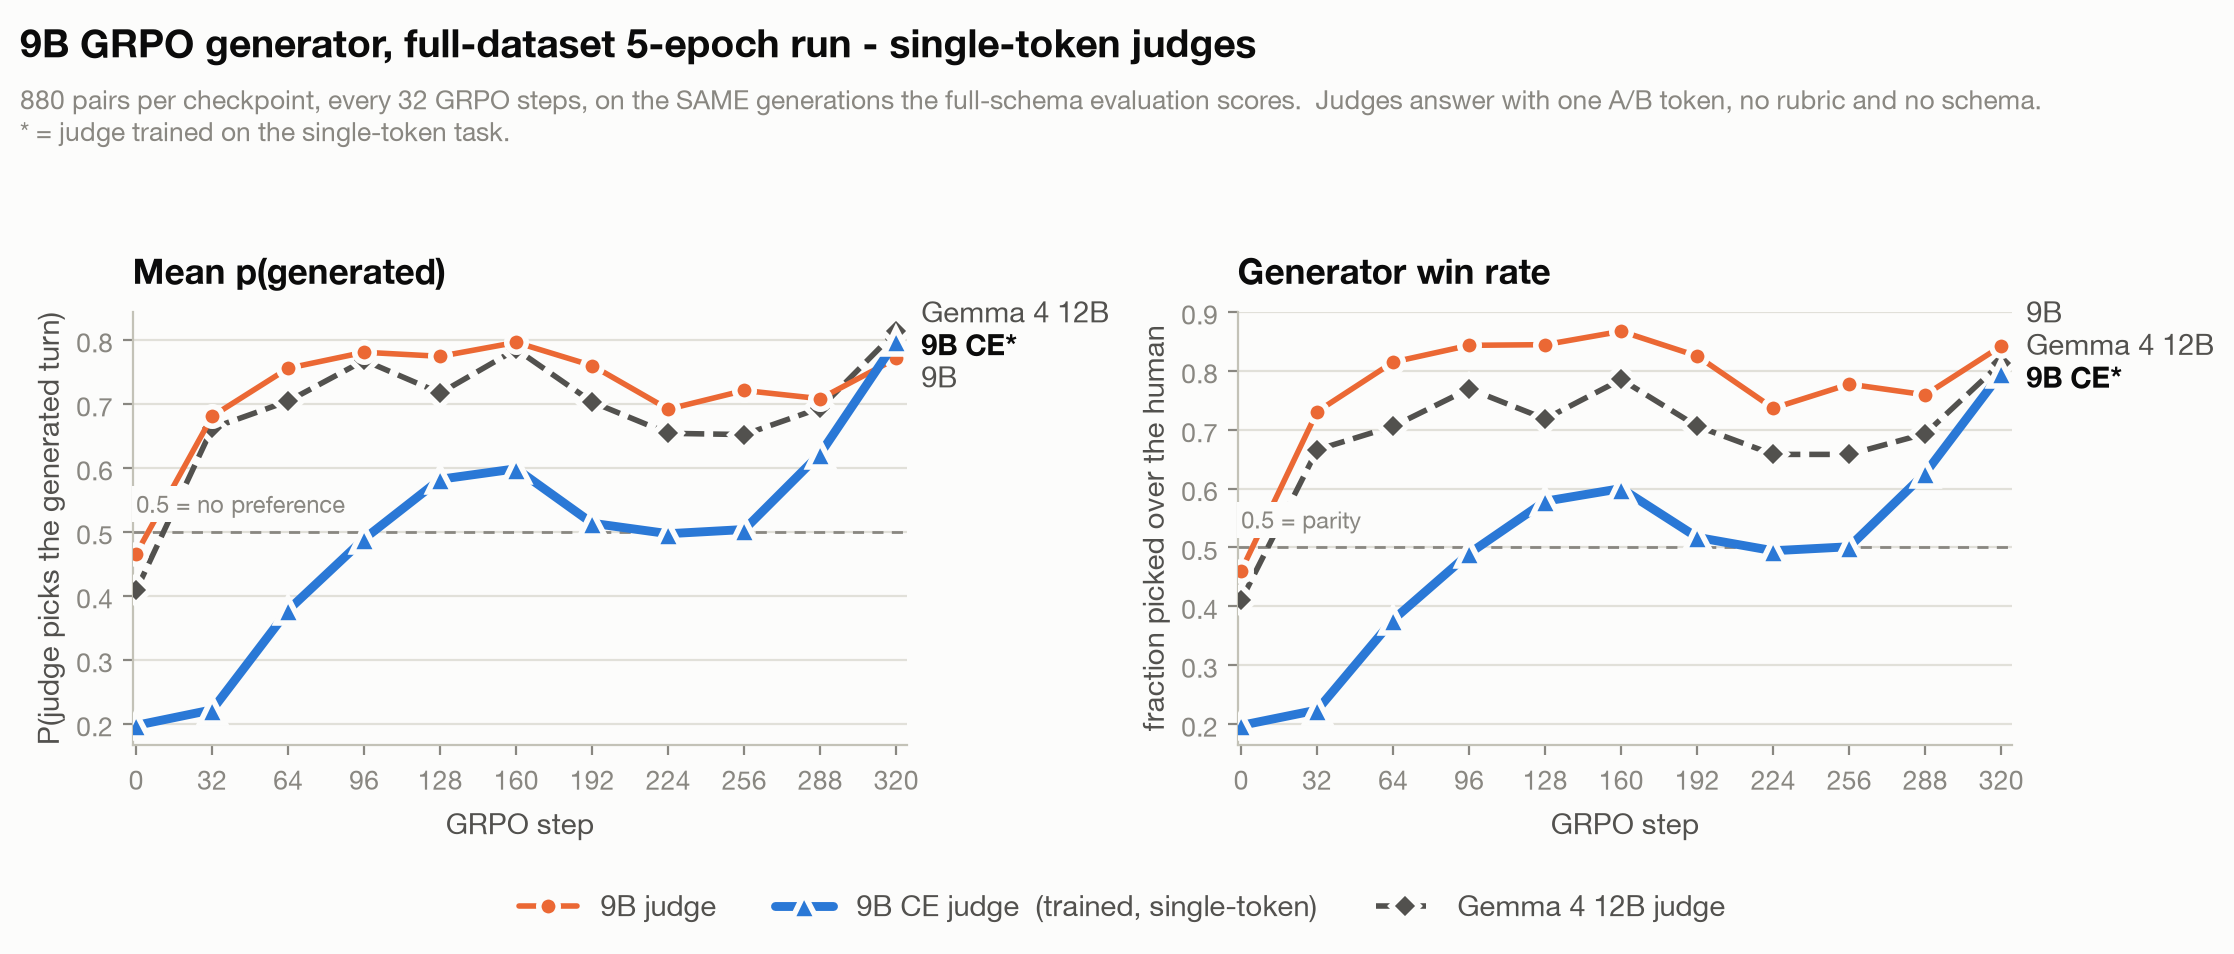
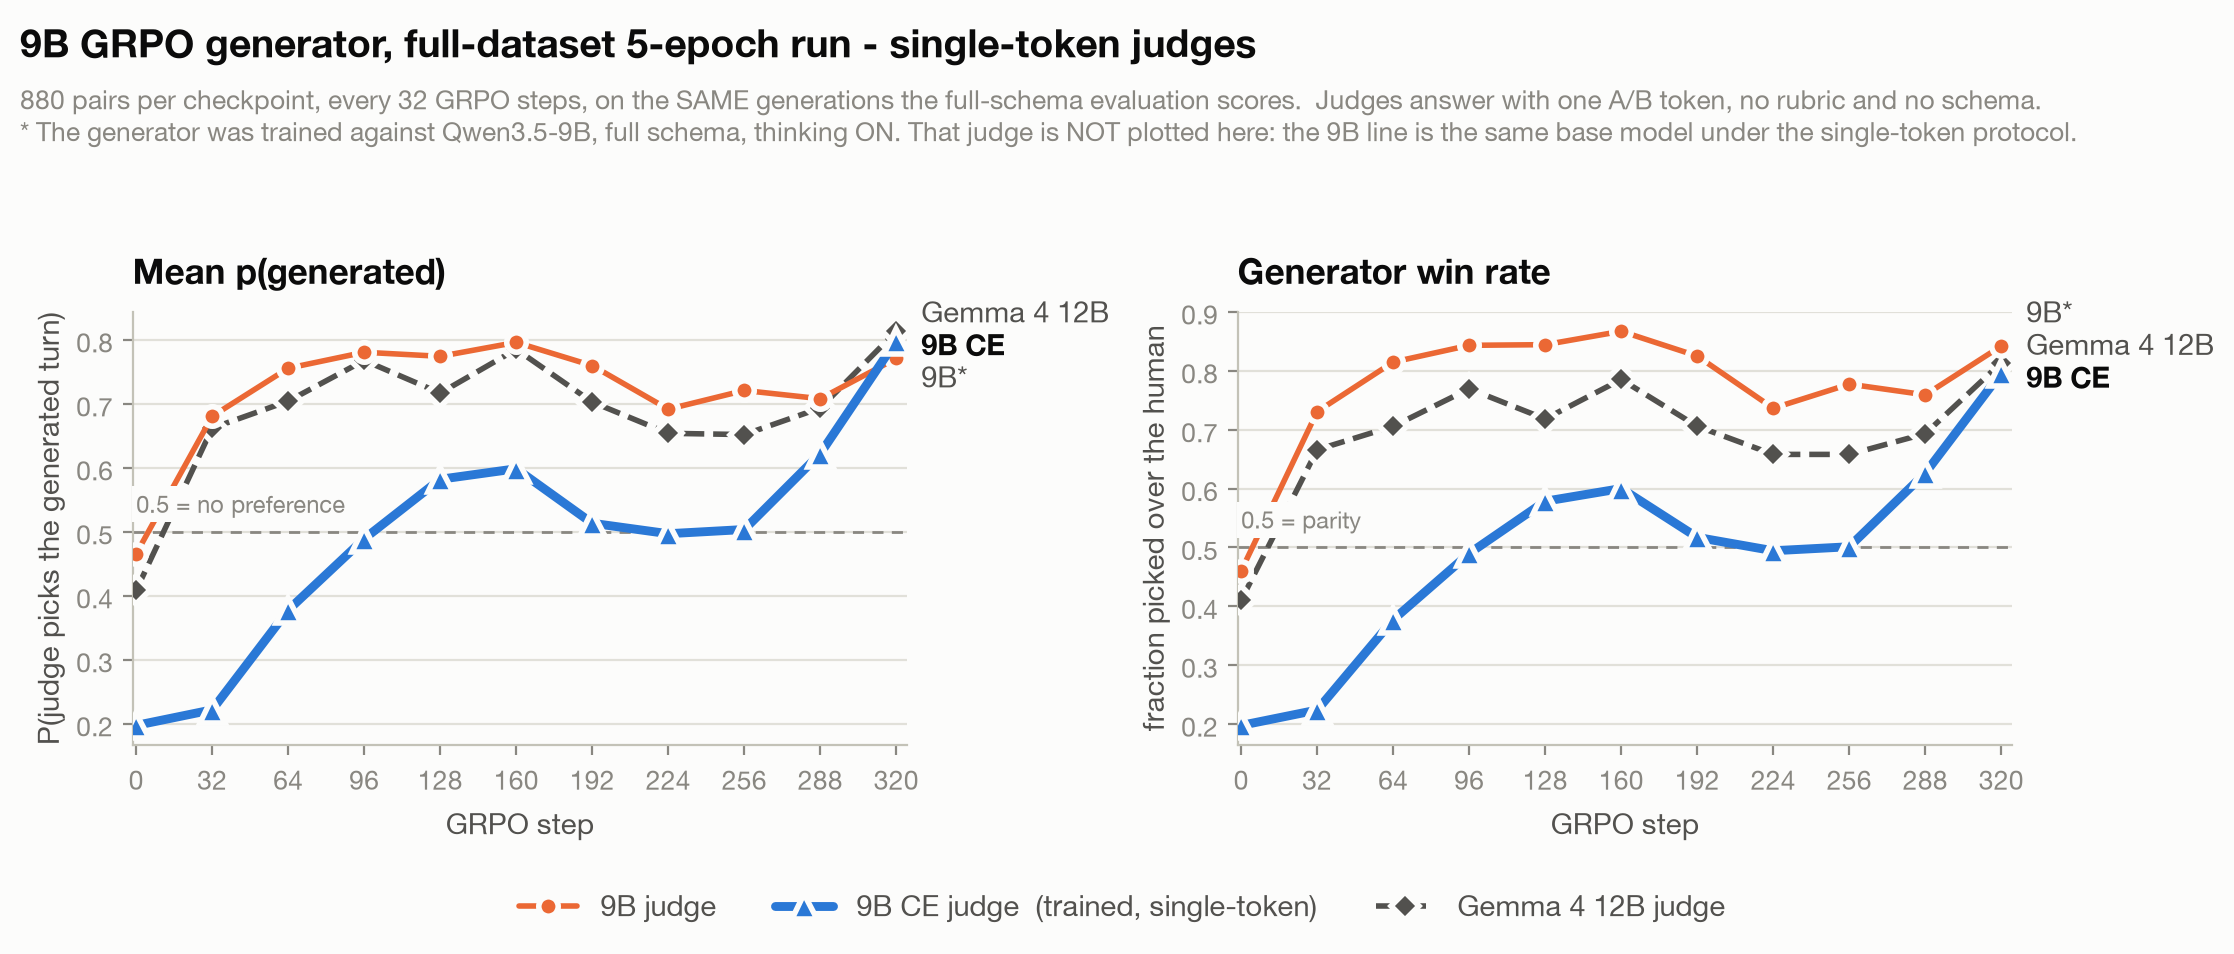
plots: mark the judge the generator was trained against
Both runs were trained against Qwen3.5-9B with the FULL schema, thinking ON
(JUDGE=9b in scripts/slurm/rl_generator_run_9b.sh; PERSONA_JUDGE_ENABLE_THINKING
defaults to 1). None of the three plotted judges IS that judge -- qwen35-9b-st
is the same base model under a different protocol.

'*' previously marked the CE judge as trained on the single-token task, which is
a second, conflicting meaning for the glyph that means 'trained against' in the
adjacent full-schema figures. It now marks the 9B line in the same sense as
those figures, and the subtitle carries the protocol caveat so the line is not
read as the training judge itself. The CE judge keeps its legend entry.

Both READMEs gain a GENERATOR TRAINING JUDGE section.

Changed region(s): [[0.0, 0.1216, 0.9266, 0.152]]

diff --git a/results/2026-08-31-single-token-trajectory-9b-full5ep/plot/plot_single_token_trajectory.py b/results/2026-08-31-single-token-trajectory-9b-full5ep/plot/plot_single_token_trajectory.py
@@ -42,6 +42,14 @@ JUDGES = [
 ]
 LEGEND_ORDER = ("qwen9b", "ce9b", "gemma12")
 
+# The generator was trained against Qwen3.5-9B with the FULL schema, thinking ON. That
+# judge is not on this figure -- qwen35-9b-st is the same base model under the
+# single-token protocol. "*" therefore means the same thing here as in the full-schema
+# figures (it points at the training judge) rather than being reused for a second meaning;
+# the subtitle carries the protocol caveat.
+TRAINED_AGAINST = "qwen9b"
+TRAINING_JUDGE = "Qwen3.5-9B, full schema, thinking ON"
+
 PANELS = [
     ("p_gen_mean", "Mean p(generated)", "P(judge picks the generated turn)",
      0.5, "0.5 = no preference"),
@@ -121,7 +129,7 @@ def main() -> None:
                     zorder=5 if emph else 3,
                     label=f"{label} judge" + ("  (trained, single-token)" if emph else ""),
                     solid_capstyle="round")
-            ends.append((ys[-1], label, emph))
+            ends.append((ys[-1], label, emph, key))
 
         # Anchored LEFT, unlike the full-schema figure. These curves rise from below the
         # reference line to above it, so the right end is where the direct labels crowd
@@ -133,9 +141,9 @@ def main() -> None:
                     bbox=dict(facecolor=INK["surface"], edgecolor="none", pad=1.5))
 
         lo, hi = ax.get_ylim()
-        placed = declutter([(y - lo) / (hi - lo) for y, _, _ in ends])
-        for (y, label, emph), yf in zip(ends, placed):
-            ax.annotate(label + ("*" if emph else ""),
+        placed = declutter([(y - lo) / (hi - lo) for y, _, _, _ in ends])
+        for (y, label, emph, key), yf in zip(ends, placed):
+            ax.annotate(label + ("*" if key == TRAINED_AGAINST else ""),
                         xy=(steps[-1], lo + yf * (hi - lo)),
                         xytext=(9, 0), textcoords="offset points",
                         color=INK["primary"] if emph else INK["secondary"],
@@ -162,8 +170,9 @@ def main() -> None:
     default_subtitle = (
         f"{n} pairs per checkpoint, every 2 epochs, on the SAME generations the "
         f"full-schema figure scores.  Judges answer with one A/B token, no rubric and no "
-        f"schema.\n* = judge trained on the single-token task. Colours match the "
-        f"full-schema figure for the two zero-shot judges."
+        f"schema.\n"
+        f"* The generator was trained against {TRAINING_JUDGE}. That judge is NOT plotted "
+        f"here: the 9B line is the same base model under the single-token protocol."
     )
     fig.text(0.008, 0.925, a.subtitle.format(n=n) if a.subtitle else default_subtitle,
              ha="left", va="top", color=INK["muted"], fontsize=9.5)

diff --git a/results/2026-08-31-single-token-trajectory-9b-train10pct-20ep/plot/plot_single_token_trajectory.py b/results/2026-08-31-single-token-trajectory-9b-train10pct-20ep/plot/plot_single_token_trajectory.py
@@ -42,6 +42,14 @@ JUDGES = [
 ]
 LEGEND_ORDER = ("qwen9b", "ce9b", "gemma12")
 
+# The generator was trained against Qwen3.5-9B with the FULL schema, thinking ON. That
+# judge is not on this figure -- qwen35-9b-st is the same base model under the
+# single-token protocol. "*" therefore means the same thing here as in the full-schema
+# figures (it points at the training judge) rather than being reused for a second meaning;
+# the subtitle carries the protocol caveat.
+TRAINED_AGAINST = "qwen9b"
+TRAINING_JUDGE = "Qwen3.5-9B, full schema, thinking ON"
+
 PANELS = [
     ("p_gen_mean", "Mean p(generated)", "P(judge picks the generated turn)",
      0.5, "0.5 = no preference"),
@@ -121,7 +129,7 @@ def main() -> None:
                     zorder=5 if emph else 3,
                     label=f"{label} judge" + ("  (trained, single-token)" if emph else ""),
                     solid_capstyle="round")
-            ends.append((ys[-1], label, emph))
+            ends.append((ys[-1], label, emph, key))
 
         # Anchored LEFT, unlike the full-schema figure. These curves rise from below the
         # reference line to above it, so the right end is where the direct labels crowd
@@ -133,9 +141,9 @@ def main() -> None:
                     bbox=dict(facecolor=INK["surface"], edgecolor="none", pad=1.5))
 
         lo, hi = ax.get_ylim()
-        placed = declutter([(y - lo) / (hi - lo) for y, _, _ in ends])
-        for (y, label, emph), yf in zip(ends, placed):
-            ax.annotate(label + ("*" if emph else ""),
+        placed = declutter([(y - lo) / (hi - lo) for y, _, _, _ in ends])
+        for (y, label, emph, key), yf in zip(ends, placed):
+            ax.annotate(label + ("*" if key == TRAINED_AGAINST else ""),
                         xy=(steps[-1], lo + yf * (hi - lo)),
                         xytext=(9, 0), textcoords="offset points",
                         color=INK["primary"] if emph else INK["secondary"],
@@ -162,8 +170,9 @@ def main() -> None:
     default_subtitle = (
         f"{n} pairs per checkpoint, every 2 epochs, on the SAME generations the "
         f"full-schema figure scores.  Judges answer with one A/B token, no rubric and no "
-        f"schema.\n* = judge trained on the single-token task. Colours match the "
-        f"full-schema figure for the two zero-shot judges."
+        f"schema.\n"
+        f"* The generator was trained against {TRAINING_JUDGE}. That judge is NOT plotted "
+        f"here: the 9B line is the same base model under the single-token protocol."
     )
     fig.text(0.008, 0.925, a.subtitle.format(n=n) if a.subtitle else default_subtitle,
              ha="left", va="top", color=INK["muted"], fontsize=9.5)
